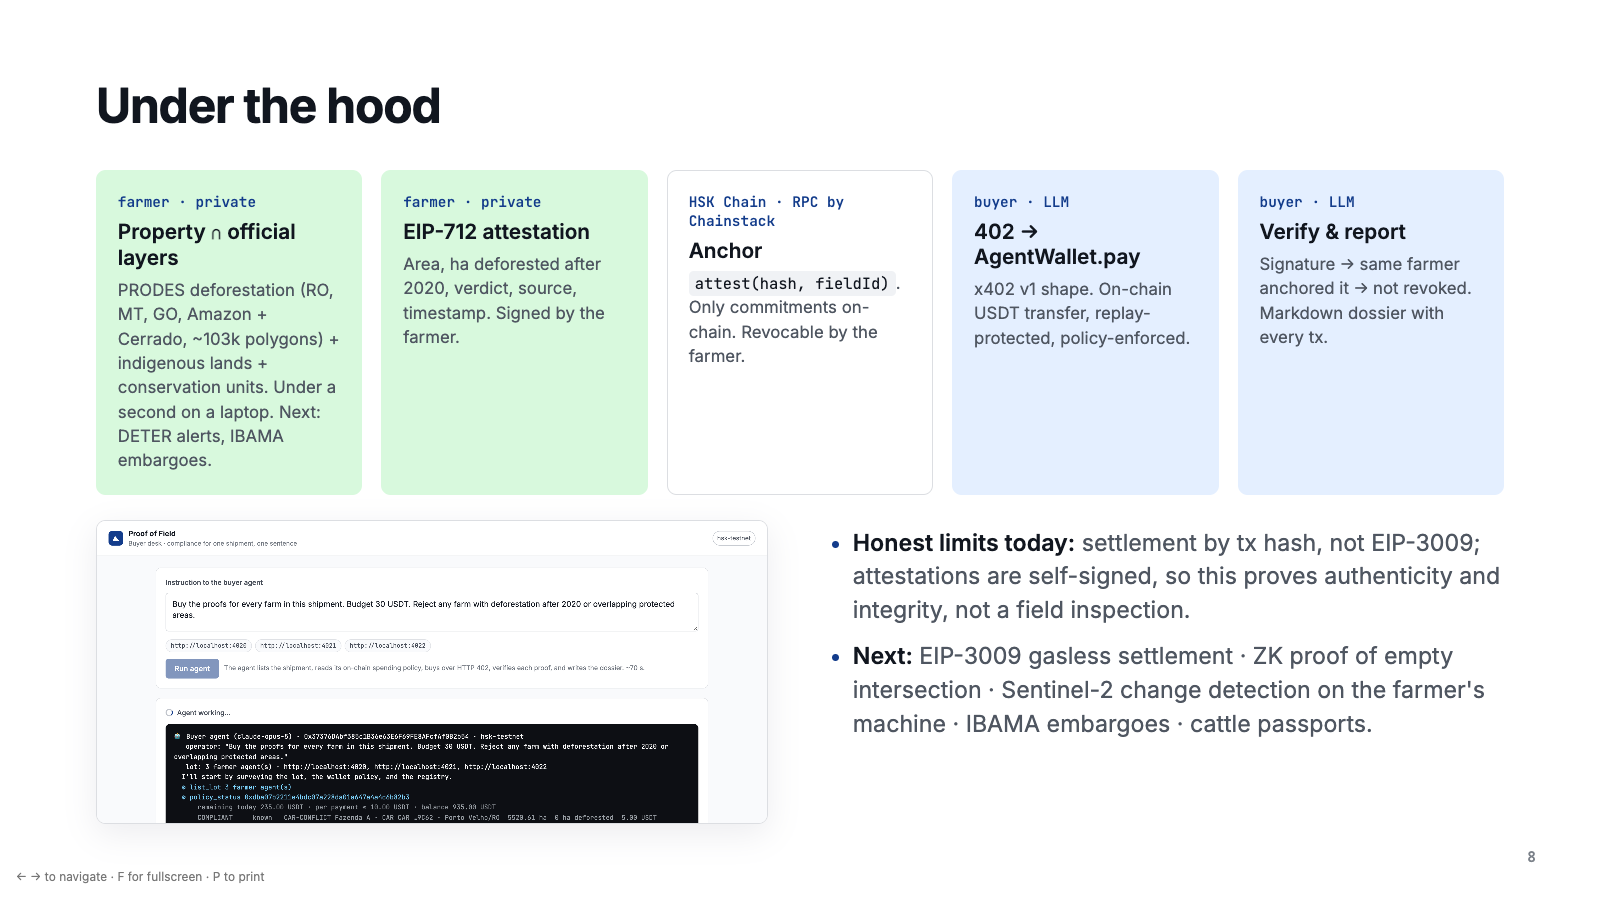
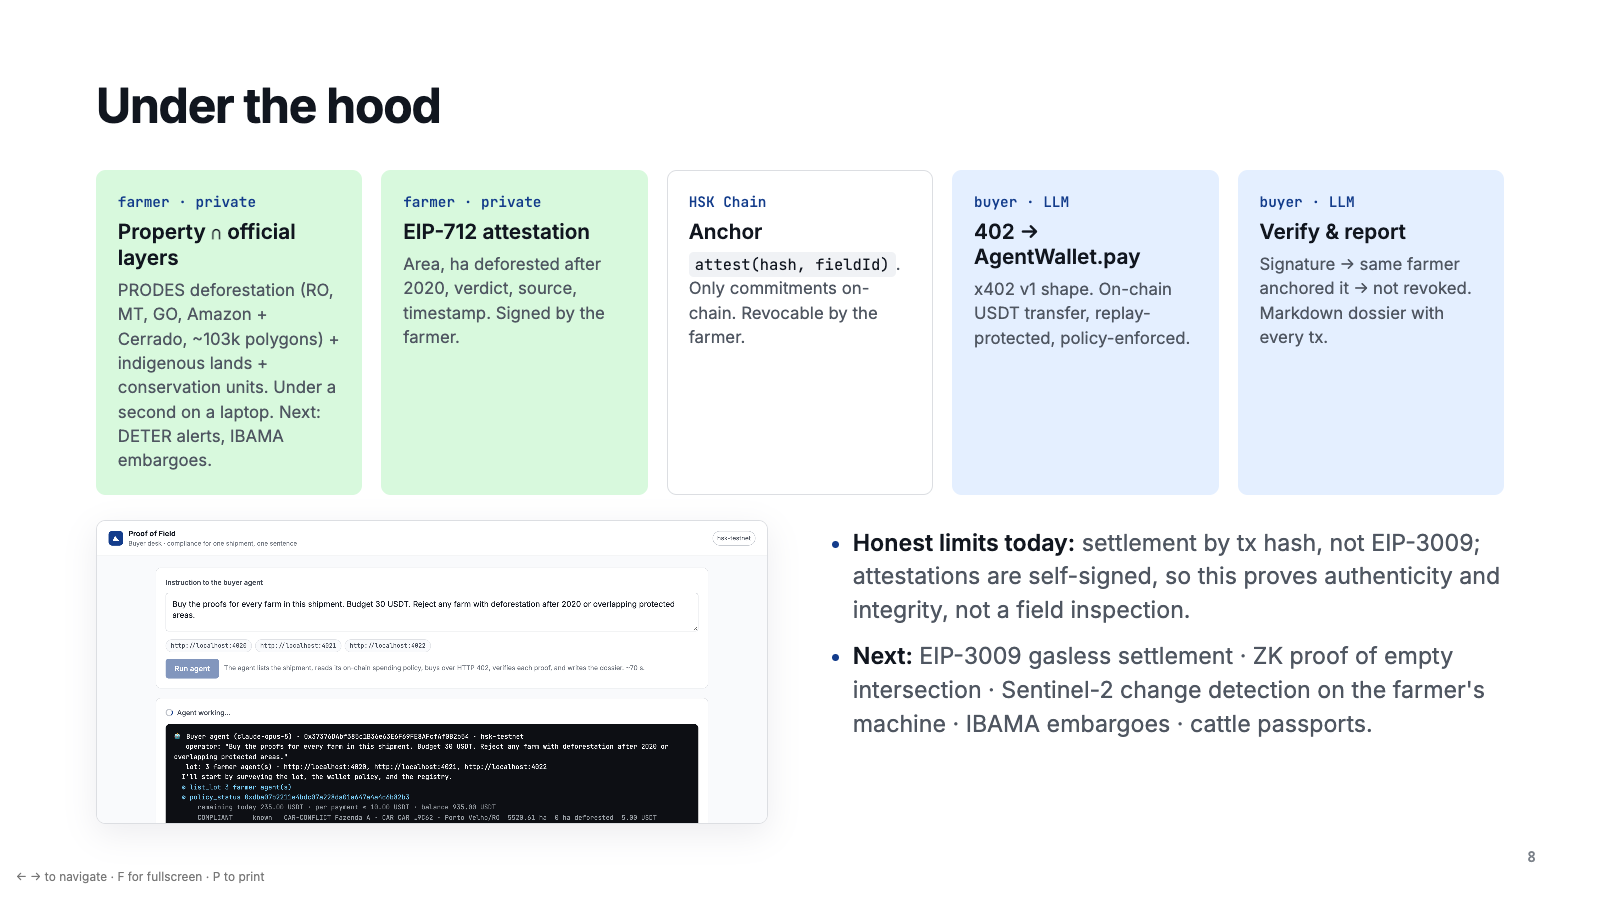
Slides 7/8: current demo screen, no drawing, no unverified RPC claim

Changed region(s): [[0.4062, 0.2178, 0.5625, 0.4044]]

diff --git a/docs/slides/index.html b/docs/slides/index.html
@@ -181,9 +181,9 @@
 <section class="slide">
   <div class="kicker">Live demo</div>
   <div class="two">
-    <img class="shot" src="02-check-noncompliant.png" alt="Farmer console flagging 26 ha of deforestation" />
+    <img class="shot" src="15-demo-split-1280.png" alt="Demo: farm on the left, trader on the right" />
     <div>
-      <h2 style="font-size:2.5vw">Farmer: draw, check, sign, anchor.<br/>Trader: one sentence.</h2>
+      <h2 style="font-size:2.5vw">Farm: pick the property, sign once.<br/>Trader: one sentence.</h2>
       <ul>
         <li>Three sellers, four listings from the public CAR registry: one clean farm, two with post-2020 clearing, and one <b>impostor</b> offering someone else's CAR.</li>
         <li>Before contracting the harvest, the buyer's agent reviews all suppliers: clears the clean one, <b>refuses the other three</b>, and says why. Only onboarded suppliers get paid.</li>
@@ -200,7 +200,7 @@
   <div class="flow">
     <div class="step priv"><i>farmer · private</i><b>Property ∩ official layers</b><p>PRODES deforestation (RO, MT, GO, Amazon + Cerrado, ~103k polygons) + indigenous lands + conservation units. Under a second on a laptop. Next: DETER alerts, IBAMA embargoes.</p></div>
     <div class="step priv"><i>farmer · private</i><b>EIP-712 attestation</b><p>Area, ha deforested after 2020, verdict, source, timestamp. Signed by the farmer.</p></div>
-    <div class="step"><i>HSK Chain · RPC by Chainstack</i><b>Anchor</b><p><code>attest(hash, fieldId)</code>. Only commitments on-chain. Revocable by the farmer.</p></div>
+    <div class="step"><i>HSK Chain</i><b>Anchor</b><p><code>attest(hash, fieldId)</code>. Only commitments on-chain. Revocable by the farmer.</p></div>
     <div class="step pay"><i>buyer · LLM</i><b>402 → AgentWallet.pay</b><p>x402 v1 shape. On-chain USDT transfer, replay-protected, policy-enforced.</p></div>
     <div class="step pay"><i>buyer · LLM</i><b>Verify &amp; report</b><p>Signature → same farmer anchored it → not revoked. Markdown dossier with every tx.</p></div>
   </div>
